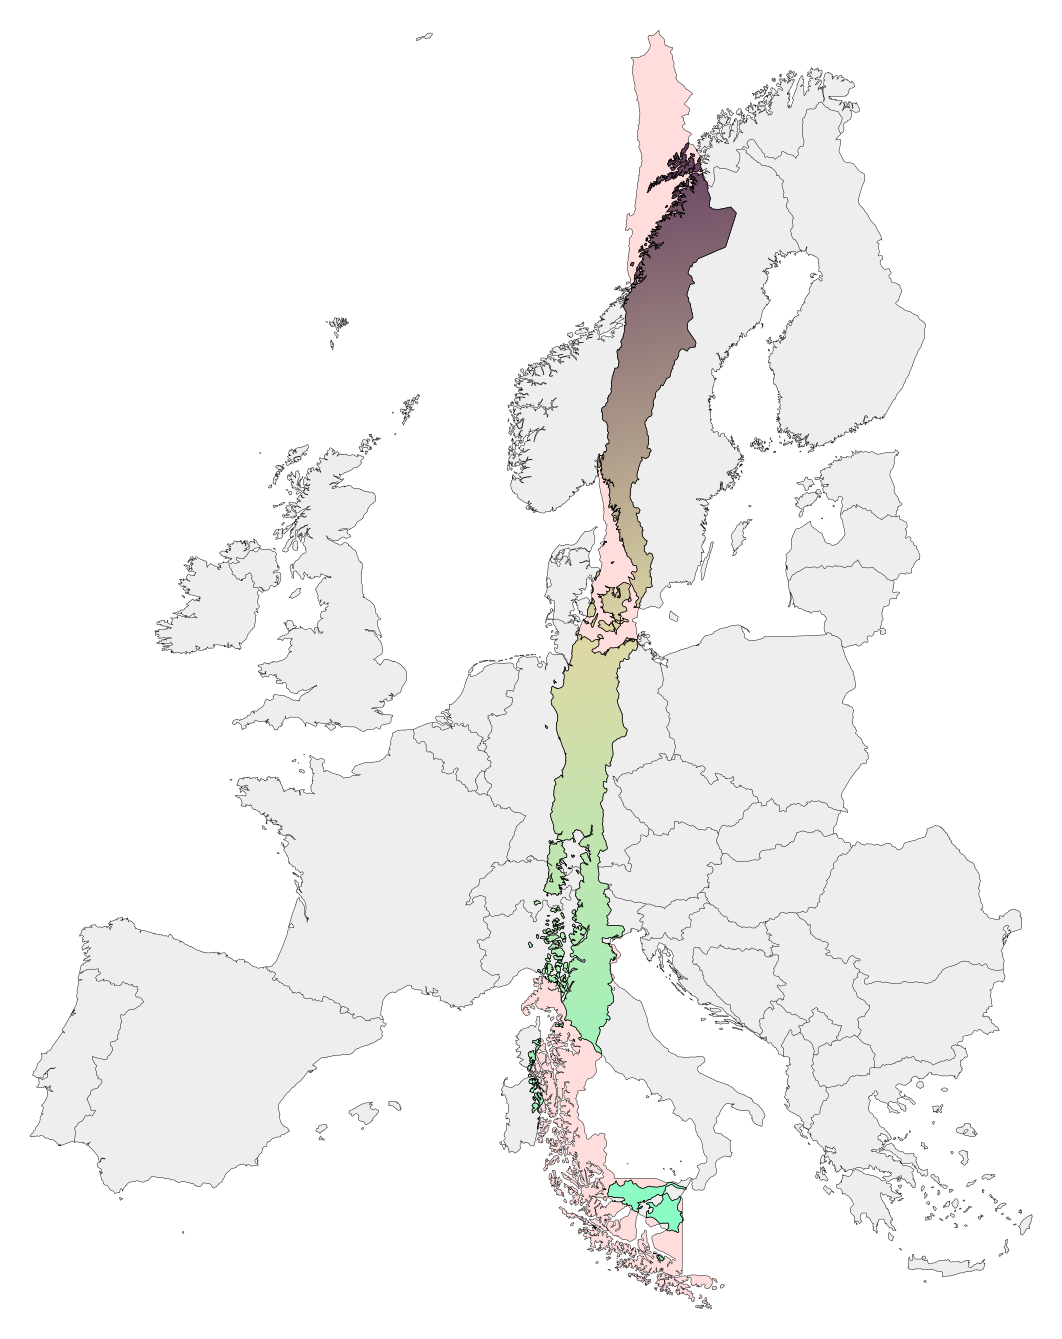
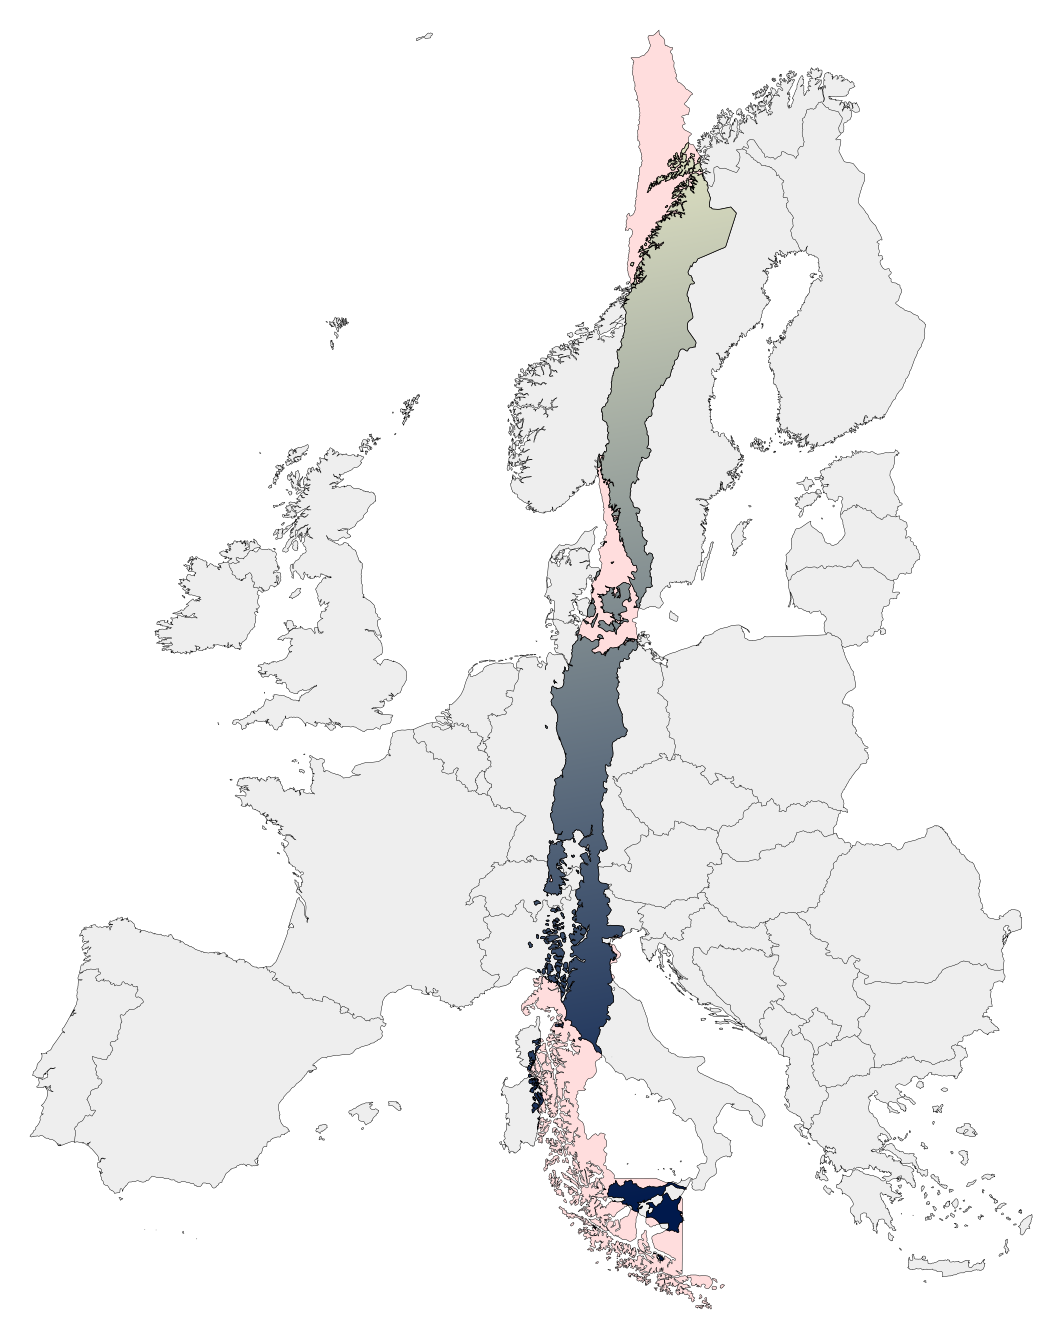
Update

Changed region(s): [[0.4972, 0.0919, 0.7147, 0.7961], [0.5593, 0.888, 0.6525, 0.9186], [0.4972, 0.7961, 0.5282, 0.8267]]

diff --git a/path_intersection.go b/path_intersection.go
@@ -235,30 +235,26 @@ func (p *Path) Intersections(q *Path) []Point {
 	return zs
 }
 
-// Intersects returns true if path p and q have at least one common point. The intersection can be tangent (touch) or secant (cross).
-func (p *Path) Intersects(q *Path) bool {
+// Touches returns true if path p and q are not disjoint, their boundaries/interiors intersect.
+// This is different from DE-9IM's definition of Touches.
+func (p *Path) Touches(q *Path) bool {
 	rel, _ := relate(p.Split(), q.Split(), false)
 	return rel.Intersects()
 }
 
-// Touches returns true if path p and q touch along the boundary, but their interiors do not overlap.
-func (p *Path) Touches(q *Path) bool {
-	rel, _ := relate(p.Split(), q.Split(), false)
-	return rel.Touches()
-}
-
-// Overlaps returns true if the interiors of p and q have at least one point in common. Either they have a secant intersection, one
-// path in contained in the other, or both paths are equal.
+// Overlaps returns true if the interiors of p and q have at least one point in common. Either
+// they have a secant intersection, one path in contained in the other, or both paths are equal.
+// This is different from DE-9IM's definition of Overlaps.
 func (p *Path) Overlaps(q *Path) bool {
 	rel, _ := relate(p.Split(), q.Split(), false)
-	return rel.Overlaps()
+	return (rel & 0x01) != 0
 }
 
-// Contains returns true if the interior of p contains the interior of q. Equal shapes contain each other. If p contains q, then q is
-// within p.
+// Contains returns true if the interior of p contains the interior of q. Equal shapes contain
+// each other. If p contains q, then q is within p. This tests DE-9IM's Covers relation.
 func (p *Path) Contains(q *Path) bool {
 	rel, _ := relate(p.Split(), q.Split(), false)
-	return rel.Contains()
+	return rel.Covers()
 }
 
 type SweepPoint struct {
@@ -1801,6 +1797,8 @@ func bentleyOttmann(ps, qs Paths, op pathOp, fillRule FillRule) Paths {
 	// TODO: optimize path data by removing commands, set number of same command (50% less memory)
 	// TODO: can we get idempotency (same result after second time) by tracing back each snapped
 	//       right-endpoint for the squares it may now intersect? (Hershberger 2013)
+	// TODO: if overlapping segments can be detected earlier, we can just process left-events
+	//       and make the code simpler
 
 	// Implementation of the Bentley-Ottmann algorithm by reducing the complexity of finding
 	// intersections to O((n + k) log n), with n the number of segments and k the number of
@@ -2446,38 +2444,51 @@ func (rel Relation) Disjoint() bool {
 	return (rel & 0x1B) == 0
 }
 
-// Intersects returns true if both shapes have at least one point in common, ie. they may touch/overlap/contain/equal.
+// Intersects returns true if both shapes have at least one point in common, ie. they may
+// touch/overlap/contain/equal.
 func (rel Relation) Intersects() bool {
 	return (rel & 0x1B) != 0
 }
 
-// Equals returns true if all interior points of one are interior of the other, and the same for exterior points.
+// Equals returns true if all interior points of one are interior of the other, and the same for
+// exterior points.
 func (rel Relation) Equals() bool {
 	return (rel & 0xE5) == 1
 }
 
-// Touches returns true if the shapes have a point in common but their interiors do not intersect, ie. their boundaries meet/overlap.
+// Touches returns true if the shapes have a point in common but their interiors do not intersect,
+// ie. their boundaries meet/overlap.
 func (rel Relation) Touches() bool {
 	return (rel&0x01) == 0 && (rel&0x1A) != 0
 }
 
-// Contains returns true if at least one point of the second shape lies in the first, and no points of the second lie in the exterior
-// of the first. This is the DE-9IM specification's Covers, but is more consistent with this library's convention of containment. It
-// implies the DE-9IM specifications' Contains but also includes points or lines on the boundaries.
+// Contains returns true if at least one point of the second shape lies in the first, and no points
+// of the second lie in the exterior of the first.
 func (rel Relation) Contains() bool {
-	//return (rel & 0xC1) == 1                  // Contains
-	return (rel&0x1B) != 0 && (rel&0xC0) == 0 // Covers
+	return (rel & 0xC1) == 1 // Contains
 }
 
 // Within is the same as Contains but with the shapes swapped.
 func (rel Relation) Within() bool {
-	//return (rel & 0x25) == 1 // Within
+	return (rel & 0x25) == 1 // Within
+}
+
+// Covers returns true if at least one point of the second shape lies in the first, and no points
+// of the second lie in the exterior of the first, including boundaries. It is similar to Contains
+// but includes lines on the boundary of an area.
+func (rel Relation) Covers() bool {
+	return (rel&0x1B) != 0 && (rel&0xC0) == 0 // Covers
+}
+
+// CoveredBy is the same as Covers but with the shapes swapped.
+func (rel Relation) CoveredBy() bool {
 	return (rel&0x1B) != 0 && (rel&0x24) == 0 // CoveredBy
 }
 
-// Overlaps returns true if both shapes have some but not all points in common. This is different from the DE-9IM specification since
-// it does not consider the dimensionality of the shapes. The result is that equal shapes do not overlap, points never overlap,
-// crossing lines overlap, and contained/covered shapes do not overlap.
+// Overlaps returns true if both shapes have some but not all points in common. This is different
+// from the DE-9IM specification since it does not consider the dimensionality of the shapes. The
+// result is that equal shapes do not overlap, points never overlap, crossing lines overlap, and
+// contained/covered shapes do not overlap.
 func (rel Relation) Overlaps() bool {
 	return (rel & 0x45) == 0x45
 }
@@ -2685,6 +2696,11 @@ func eventRelation(rel Relation, zs []Point, event *SweepPoint, rights []*SweepP
 
 // relate uses the Bentley-Ottmann algorithm to classify geometry intersections using DE-9IM.
 func relate(ps, qs Paths, intersections bool) (Relation, []Point) {
+	// TODO: support arcs
+	// TODO: support finding self-intersections
+	// TODO: if overlapping segments can be detected earlier, we can just process left-events
+	//       and make the code simpler
+
 	boInitPoolsOnce() // use pools for SweepPoint and SweepNode to amortize repeated calls to BO
 
 	self := qs == nil
@@ -2693,7 +2709,6 @@ func relate(ps, qs Paths, intersections bool) (Relation, []Point) {
 	}
 
 	// flatten paths and initialise queue
-	// TODO: keep arcs
 	pSeg, qSeg := 0, 0
 	queue := &SweepEvents{}
 	for i := range ps {

diff --git a/examples/chile/main.go b/examples/chile/main.go
@@ -38,7 +38,6 @@ func main() {
 	if err != nil {
 		panic(err)
 	}
-	fmt.Println(europe.Len(), europe.Bounds())
 
 	// remove islands (coordinates in WGS84)
 	chile = chile.Clip(-78, -60, -62, -16)
@@ -59,8 +58,8 @@ func main() {
 	})
 
 	// simplify using the Visvalingam-Whyatt algorithm this greatly reduces the number of line segments
-	chile = chile.SimplifyVisvalingamWhyatt(0.0002)
-	europe = europe.SimplifyVisvalingamWhyatt(0.0002)
+	//chile = chile.SimplifyVisvalingamWhyatt(0.0002)
+	//europe = europe.SimplifyVisvalingamWhyatt(0.0002)
 
 	bounds := chile.Bounds().Add(europe.Bounds())
 	chile.Translate(-bounds.X0+1.0, -bounds.Y0+1.0)
@@ -73,10 +72,14 @@ func main() {
 	ctx.SetFillColor(canvas.White)
 	ctx.DrawPath(0, 0, canvas.Rectangle(c.W, c.H))
 
-	candyShop := canvas.Stops{}
-	candyShop.Add(0.0, canvas.RGB(0.31, 0.14, 0.33))
-	candyShop.Add(0.5, canvas.RGB(0.87, 0.85, 0.65))
-	candyShop.Add(1.0, canvas.RGB(0.54, 0.99, 0.77))
+	//candyShop := canvas.Stops{}
+	//candyShop.Add(0.0, canvas.RGB(0.31, 0.14, 0.33))
+	//candyShop.Add(0.5, canvas.RGB(0.87, 0.85, 0.65))
+	//candyShop.Add(1.0, canvas.RGB(0.54, 0.99, 0.77))
+
+	deepOcean := canvas.Stops{}
+	deepOcean.Add(0.0, canvas.Hex("#f2f2cc"))
+	deepOcean.Add(1.0, canvas.Hex("#00194c"))
 
 	ctx.SetStrokeWidth(0.015)
 	ctx.SetStrokeColor(canvas.Black)
@@ -92,7 +95,7 @@ func main() {
 	fmt.Printf("%v chile=%d europe=%d\n", time.Since(t), chile.Len(), europe.Len())
 	bounds = overlap.Bounds()
 	gradient := canvas.NewLinearGradient(canvas.Point{bounds.X0, bounds.Y0}, canvas.Point{bounds.X1, bounds.Y1})
-	gradient.Stops = candyShop
+	gradient.Stops = deepOcean
 	ctx.SetFill(gradient)
 	ctx.SetStrokeColor(canvas.Black)
 	ctx.SetStrokeWidth(0.025)

diff --git a/path_intersection_test.go b/path_intersection_test.go
@@ -1460,16 +1460,18 @@ func TestPathRelate(t *testing.T) {
 				test.That(t, !rel.Overlaps(), "overlaps")
 				test.That(t, rel.Equals(), "equals")
 			} else if tt.rel == relContains {
-				test.That(t, rel.Contains(), "contains")
 				test.That(t, rel.Intersects(), "intersects")
 				test.That(t, !rel.Touches(), "!touches")
 				test.That(t, !rel.Overlaps(), "overlaps")
+				test.That(t, rel.Contains(), "contains")
+				test.That(t, rel.Covers(), "covers")
 				test.That(t, !rel.Equals(), "!equals")
 			} else if tt.rel == relWithin {
-				test.That(t, rel.Within(), "within")
 				test.That(t, rel.Intersects(), "intersects")
 				test.That(t, !rel.Touches(), "!touches")
 				test.That(t, !rel.Overlaps(), "overlaps")
+				test.That(t, rel.Within(), "within")
+				test.That(t, rel.CoveredBy(), "covered-by")
 				test.That(t, !rel.Equals(), "!equals")
 			} else if tt.rel == relTouches {
 				test.That(t, rel.Intersects(), "intersects")

diff --git a/resources/docs/relation/main.go b/resources/docs/relation/main.go
@@ -65,10 +65,10 @@ func draw(ctx *canvas.Context, y float64, title string, p, q *canvas.Path) {
 
 	rel, zs := p.Relate(q)
 	for _, z := range zs {
-		ctx.SetFillColor(canvas.Hex("#ED3F27"))
+		ctx.SetFillColor(canvas.Hex("#BF0000"))
 		ctx.SetStrokeColor(canvas.Transparent)
 		ctx.SetStrokeCapper(canvas.RoundCap)
-		ctx.DrawPath(3.0+z.X, y+z.Y, canvas.Circle(0.25))
+		ctx.DrawPath(3.0+z.X, y+z.Y, canvas.Circle(0.30))
 	}
 
 	y += 5.0

diff --git a/README.md b/README.md
@@ -20,6 +20,9 @@ Canvas is a common vector drawing target that can output SVG, PDF, EPS, raster i
 - `Path.Windings` is now `Path.WindingsAt`
 - `Path.Crossings` is now `Path.CrossingsAt`
 - `Path.Contains` is now `Path.ContainsPoint`
+- `Path.Flat` is now `Path.IsFlat`
+- `Path.DivideBy` is now `Path.Div`
+- `canvas.RGB` and `canvas.RGBA` now accept channel values in [0,1] and not [0,255]
 
 ### Sponsors
 I'm actively looking for support in the form of donations or sponsorships to keep developing this library and highly appreciate any gesture. Please see the Sponsors button in GitHub for ways to contribute, or contact me directly.
